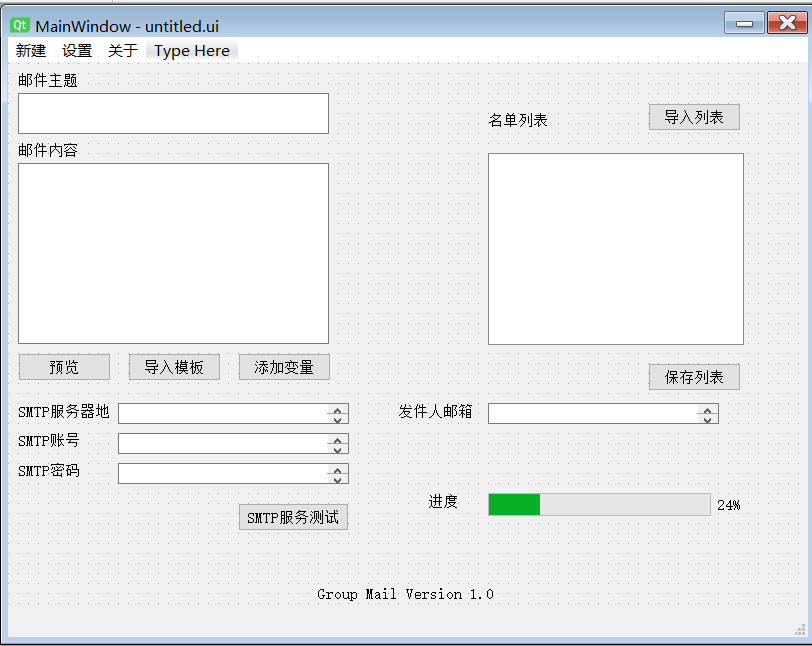
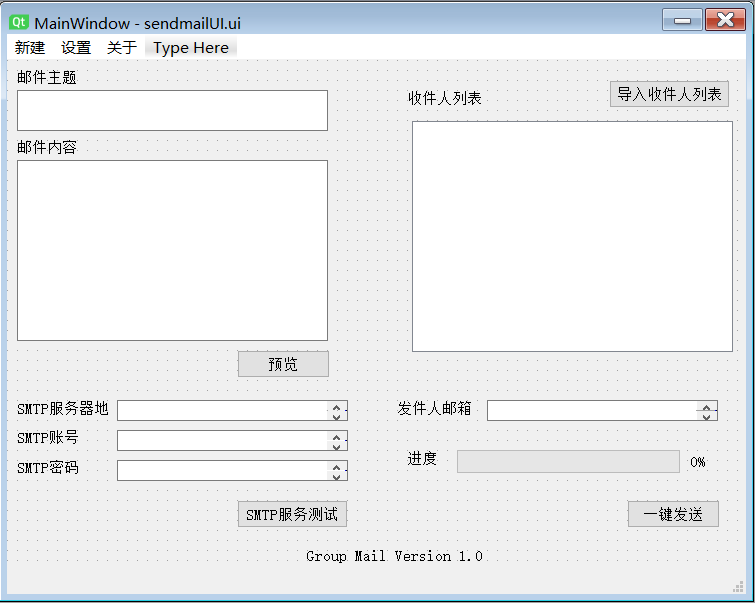
Modify UI&load excel

diff --git a/sendmailUI.py b/sendmailUI.py
@@ -1,0 +1,216 @@
+# -*- coding: utf-8 -*-
+
+# Form implementation generated from reading ui file 'sendmailUI.ui'
+#
+# Created by: PyQt5 UI code generator 5.15.1
+#
+# WARNING: Any manual changes made to this file will be lost when pyuic5 is
+# run again.  Do not edit this file unless you know what you are doing.
+
+
+from PyQt5 import QtCore, QtGui, QtWidgets
+from PyQt5.QtWidgets import *
+from PyQt5.QtCore import *
+import xlrd
+import pandas as pd
+import numpy as np
+
+
+class Ui_MainWindow(QMainWindow):
+    def setupUi(self, MainWindow):
+        MainWindow.setObjectName("MainWindow")
+        MainWindow.resize(739, 560)
+        self.centralwidget = QtWidgets.QWidget(MainWindow)
+        self.centralwidget.setObjectName("centralwidget")
+        self.textEdit = QtWidgets.QTextEdit(self.centralwidget)
+        self.textEdit.setGeometry(QtCore.QRect(10, 100, 311, 181))
+        self.textEdit.setObjectName("textEdit")
+        self.label = QtWidgets.QLabel(self.centralwidget)
+        self.label.setGeometry(QtCore.QRect(300, 480, 191, 31))
+        self.label.setObjectName("label")
+        self.textEdit_2 = QtWidgets.QTextEdit(self.centralwidget)
+        self.textEdit_2.setGeometry(QtCore.QRect(10, 30, 311, 41))
+        self.textEdit_2.setObjectName("textEdit_2")
+        self.label_2 = QtWidgets.QLabel(self.centralwidget)
+        self.label_2.setGeometry(QtCore.QRect(10, 10, 72, 15))
+        self.label_2.setObjectName("label_2")
+        self.label_3 = QtWidgets.QLabel(self.centralwidget)
+        self.label_3.setGeometry(QtCore.QRect(10, 80, 72, 15))
+        self.label_3.setObjectName("label_3")
+        self.pushButton = QtWidgets.QPushButton(self.centralwidget)
+        self.pushButton.setGeometry(QtCore.QRect(230, 290, 93, 28))
+        self.pushButton.setObjectName("pushButton")
+        self.label_4 = QtWidgets.QLabel(self.centralwidget)
+        self.label_4.setGeometry(QtCore.QRect(400, 30, 91, 16))
+        self.label_4.setObjectName("label_4")
+        self.pushButton_4 = QtWidgets.QPushButton(self.centralwidget)
+        self.pushButton_4.setGeometry(QtCore.QRect(602, 20, 121, 28))
+        self.pushButton_4.setObjectName("pushButton_4")
+        self.label_5 = QtWidgets.QLabel(self.centralwidget)
+        self.label_5.setGeometry(QtCore.QRect(10, 340, 91, 16))
+        self.label_5.setObjectName("label_5")
+        self.label_6 = QtWidgets.QLabel(self.centralwidget)
+        self.label_6.setGeometry(QtCore.QRect(10, 370, 72, 15))
+        self.label_6.setObjectName("label_6")
+        self.label_7 = QtWidgets.QLabel(self.centralwidget)
+        self.label_7.setGeometry(QtCore.QRect(10, 400, 72, 15))
+        self.label_7.setObjectName("label_7")
+        self.pushButton_6 = QtWidgets.QPushButton(self.centralwidget)
+        self.pushButton_6.setGeometry(QtCore.QRect(230, 440, 111, 28))
+        self.pushButton_6.setObjectName("pushButton_6")
+        self.label_8 = QtWidgets.QLabel(self.centralwidget)
+        self.label_8.setGeometry(QtCore.QRect(390, 340, 81, 16))
+        self.label_8.setObjectName("label_8")
+        self.textBrowser = QtWidgets.QTextBrowser(self.centralwidget)
+        self.textBrowser.setGeometry(QtCore.QRect(110, 340, 231, 21))
+        self.textBrowser.setObjectName("textBrowser")
+        self.textBrowser_2 = QtWidgets.QTextBrowser(self.centralwidget)
+        self.textBrowser_2.setGeometry(QtCore.QRect(110, 370, 231, 21))
+        self.textBrowser_2.setObjectName("textBrowser_2")
+        self.textBrowser_3 = QtWidgets.QTextBrowser(self.centralwidget)
+        self.textBrowser_3.setGeometry(QtCore.QRect(110, 400, 231, 21))
+        self.textBrowser_3.setObjectName("textBrowser_3")
+        self.textBrowser_4 = QtWidgets.QTextBrowser(self.centralwidget)
+        self.textBrowser_4.setGeometry(QtCore.QRect(480, 340, 231, 21))
+        self.textBrowser_4.setObjectName("textBrowser_4")
+        self.progressBar = QtWidgets.QProgressBar(self.centralwidget)
+        self.progressBar.setGeometry(QtCore.QRect(450, 390, 261, 23))
+        self.progressBar.setProperty("value", 0)
+        self.progressBar.setObjectName("progressBar")
+        self.label_9 = QtWidgets.QLabel(self.centralwidget)
+        self.label_9.setGeometry(QtCore.QRect(400, 390, 41, 16))
+        self.label_9.setObjectName("label_9")
+        self.tableWidget = QtWidgets.QTableWidget(self.centralwidget)
+        self.tableWidget.setGeometry(QtCore.QRect(405, 61, 321, 231))
+        self.tableWidget.setObjectName("tableWidget")
+        self.tableWidget.setColumnCount(0)
+        self.tableWidget.setRowCount(0)
+        self.pushButton_5 = QtWidgets.QPushButton(self.centralwidget)
+        self.pushButton_5.setGeometry(QtCore.QRect(620, 440, 93, 28))
+        self.pushButton_5.setObjectName("pushButton_5")
+        MainWindow.setCentralWidget(self.centralwidget)
+        self.menubar = QtWidgets.QMenuBar(MainWindow)
+        self.menubar.setGeometry(QtCore.QRect(0, 0, 739, 26))
+        self.menubar.setObjectName("menubar")
+        self.menu = QtWidgets.QMenu(self.menubar)
+        self.menu.setObjectName("menu")
+        self.menu_2 = QtWidgets.QMenu(self.menubar)
+        self.menu_2.setObjectName("menu_2")
+        self.menu_3 = QtWidgets.QMenu(self.menubar)
+        self.menu_3.setObjectName("menu_3")
+        MainWindow.setMenuBar(self.menubar)
+        self.statusbar = QtWidgets.QStatusBar(MainWindow)
+        self.statusbar.setObjectName("statusbar")
+        MainWindow.setStatusBar(self.statusbar)
+        self.action = QtWidgets.QAction(MainWindow)
+        self.action.setObjectName("action")
+        self.actionSMTP = QtWidgets.QAction(MainWindow)
+        self.actionSMTP.setObjectName("actionSMTP")
+        self.actionPOP3 = QtWidgets.QAction(MainWindow)
+        self.actionPOP3.setObjectName("actionPOP3")
+        self.action_2 = QtWidgets.QAction(MainWindow)
+        self.action_2.setObjectName("action_2")
+        self.action_3 = QtWidgets.QAction(MainWindow)
+        self.action_3.setObjectName("action_3")
+        self.menu.addAction(self.action)
+        self.menu_2.addAction(self.actionSMTP)
+        self.menu_2.addAction(self.actionPOP3)
+        self.menu_3.addAction(self.action_2)
+        self.menu_3.addAction(self.action_3)
+        self.menubar.addAction(self.menu.menuAction())
+        self.menubar.addAction(self.menu_2.menuAction())
+        self.menubar.addAction(self.menu_3.menuAction())
+
+        self.retranslateUi(MainWindow)
+        QtCore.QMetaObject.connectSlotsByName(MainWindow)
+
+        # 导入收件人列表（页面端）
+        self.pushButton_4.clicked.connect(self.openfile)
+        self.pushButton_4.clicked.connect(self.create_table_show)
+        # 导入收件人列表（菜单栏-新建）
+        self.action.triggered.connect(self.openfile)
+        self.action.triggered.connect(self.create_table_show)
+
+    def retranslateUi(self, MainWindow):
+        _translate = QtCore.QCoreApplication.translate
+        MainWindow.setWindowTitle(_translate("MainWindow", "Group Mail"))
+        self.label.setText(_translate("MainWindow", "Group Mail Version 1.0"))
+        self.label_2.setText(_translate("MainWindow", "邮件主题"))
+        self.label_3.setText(_translate("MainWindow", "邮件内容"))
+        self.pushButton.setText(_translate("MainWindow", "预览"))
+        self.label_4.setText(_translate("MainWindow", "收件人列表"))
+        self.pushButton_4.setText(_translate("MainWindow", "导入收件人列表"))
+        self.label_5.setText(_translate("MainWindow", "SMTP服务器地址"))
+        self.label_6.setText(_translate("MainWindow", "SMTP账号"))
+        self.label_7.setText(_translate("MainWindow", "SMTP密码"))
+        self.pushButton_6.setText(_translate("MainWindow", "SMTP服务测试"))
+        self.label_8.setText(_translate("MainWindow", "发件人邮箱"))
+        self.label_9.setText(_translate("MainWindow", "进度"))
+        self.pushButton_5.setText(_translate("MainWindow", "一键发送"))
+        self.menu.setTitle(_translate("MainWindow", "新建"))
+        self.menu_2.setTitle(_translate("MainWindow", "设置"))
+        self.menu_3.setTitle(_translate("MainWindow", "关于"))
+        self.action.setText(_translate("MainWindow", "导入收件人列表"))
+        self.actionSMTP.setText(_translate("MainWindow", "SMTP服务器设置"))
+        self.actionPOP3.setText(_translate("MainWindow", "POP3服务器设置"))
+        self.action_2.setText(_translate("MainWindow", "更新版本"))
+        self.action_3.setText(_translate("MainWindow", "关于我们"))
+
+    def openfile(self):
+
+        ###获取路径===================================================================
+        try:
+            openfile_name = QFileDialog.getOpenFileName(self, '选择文件', '', 'Excel files(*.xlsx , *.xls)')
+
+            # print(openfile_name)
+            global path_openfile_name
+
+            ###获取路径====================================================================
+
+            path_openfile_name = openfile_name[0]
+        except Exception as e:
+            print('err', e)
+
+    def create_table_show(self):
+        ###===========读取表格，转换表格，===========================================
+        if len(path_openfile_name) > 0:
+            input_table = pd.read_excel(path_openfile_name)
+            # print(input_table)
+            input_table_rows = input_table.shape[0]
+            input_table_colunms = input_table.shape[1]
+            # print(input_table_rows)
+            # print(input_table_colunms)
+            input_table_header = input_table.columns.values.tolist()
+            # print(input_table_header)
+
+            ###===========读取表格，转换表格，============================================
+            ###======================给tablewidget设置行列表头============================
+
+            self.tableWidget.setColumnCount(input_table_colunms)
+            self.tableWidget.setRowCount(input_table_rows)
+            self.tableWidget.setHorizontalHeaderLabels(input_table_header)
+
+            ###======================给tablewidget设置行列表头============================
+
+            ###================遍历表格每个元素，同时添加到tablewidget中========================
+            for i in range(input_table_rows):
+                input_table_rows_values = input_table.iloc[[i]]
+                # print(input_table_rows_values)
+                input_table_rows_values_array = np.array(input_table_rows_values)
+                input_table_rows_values_list = input_table_rows_values_array.tolist()[0]
+                # print(input_table_rows_values_list)
+                for j in range(input_table_colunms):
+                    input_table_items_list = input_table_rows_values_list[j]
+                    # print(input_table_items_list)
+                    # print(type(input_table_items_list))
+
+                    ###==============将遍历的元素添加到tablewidget中并显示=======================
+
+                    input_table_items = str(input_table_items_list)
+                    newItem = QTableWidgetItem(input_table_items)
+                    newItem.setTextAlignment(Qt.AlignHCenter | Qt.AlignVCenter)
+                    self.tableWidget.setItem(i, j, newItem)
+
+        ###================遍历表格每个元素，同时添加到tablewidget中========================
+        else:
+            self.centralWidget.show()
